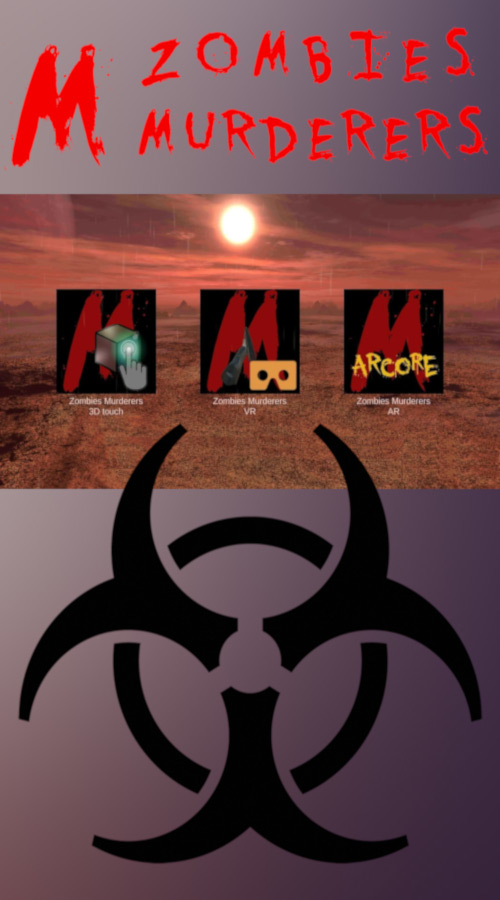
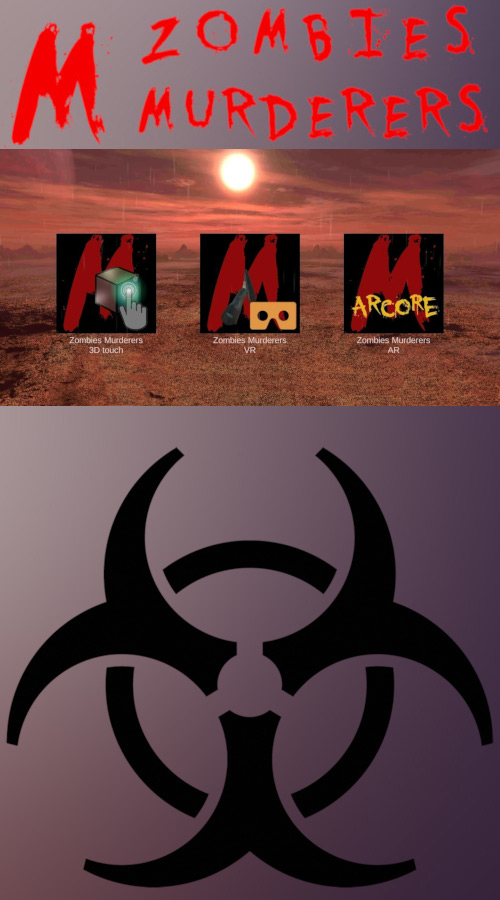
Mise à jour position Image du début

diff --git a/index.html b/index.html
@@ -42,7 +42,7 @@
 									</P>
 									<p>
 										<a data-fancybox href="https://youtu.be/vRqwk8ksLGw;autoplay=1">
-											<img src="images/tel.png" width="310px" alt=""/>
+											<img src="images/tel.png" alt=""/>
 										</a>
 									</p>
 									<ul class="actions">
@@ -51,7 +51,7 @@
 										</li>
 									</ul>
 								</div>
-								<div class="image filtered span-1-75" data-position="25% 25%">
+								<div class="image filtered span-1-75" data-position="mytop">
 									<img src="images/pic01.jpg" alt="" />
 								</div>
 							</section>
@@ -129,8 +129,8 @@
 								<div class="inner">
 									<a data-fancybox href="https://youtu.be/Fjag7bVBD7w;autoplay=1">
 
-										<img src="images/thumbsnailStory.png"
-										width="310px" alt="">
+										<img src="images/thumbsnailStory-310.png"
+										alt="">
 									</a>
 								</div>
 							</section>

diff --git a/assets/css/main.css b/assets/css/main.css
@@ -928,6 +928,14 @@ input, select, textarea {
 			object-position: top;
 		}
 
+    .image[data-position="mytop"] img {
+      -moz-object-position: top;
+      -webkit-object-position: top;
+      -ms-object-position: top;
+      object-position: top;
+      width: 100%;
+    }
+
 		.image[data-position="top right"] img {
 			-moz-object-position: top right;
 			-webkit-object-position: top right;
@@ -2776,7 +2784,7 @@ input, select, textarea {
 			-webkit-flex-direction: column;
 			-ms-flex-direction: column;
 			flex-direction: column;
-			height: auto;
+			height: 100%;
 		}
 
 			.panel > *.color1 {

diff --git a/assets/dist/jquery.fancybox.min.js b/assets/dist/jquery.fancybox.min.js
@@ -3,6 +3,7 @@
 //
 // Licensed GPLv3 for open source use
 // or fancyBox Commercial License for commercial use
+
 //
 // http://fancyapps.com/fancybox/
 // Copyright 2019 fancyApps
